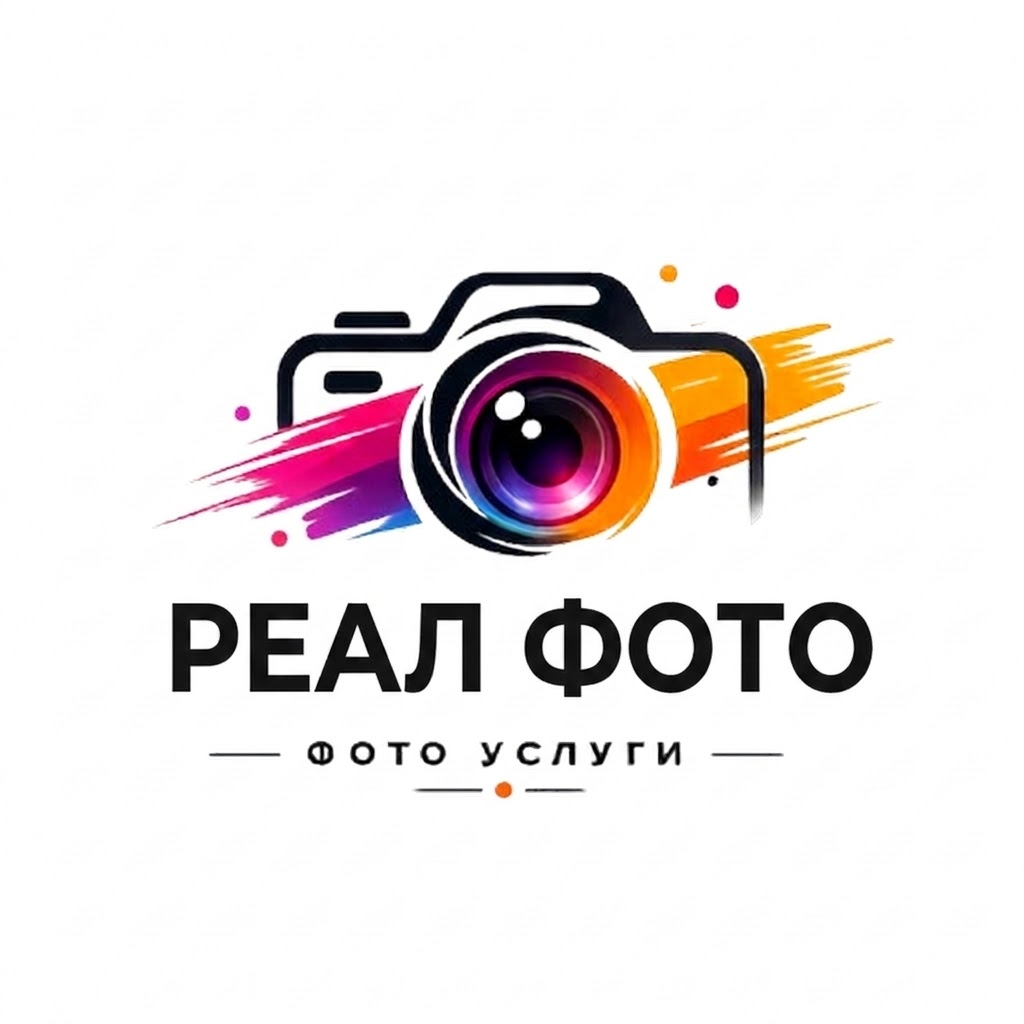
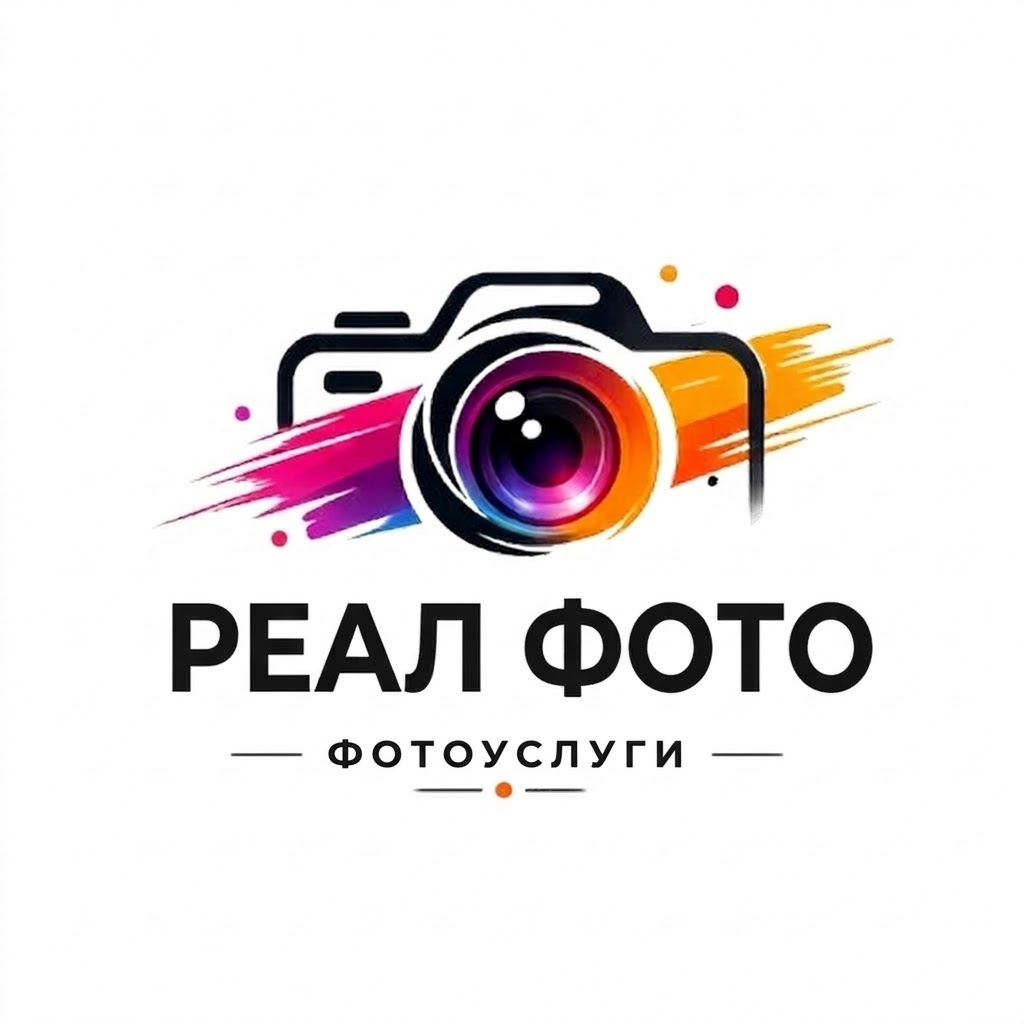
Updates

Changed region(s): [[0.2812, 0.7188, 0.6875, 0.75]]

diff --git a/assets/index-C2Dkb50m.js b/assets/index-C2Dkb50m.js
@@ -180,7 +180,7 @@ Error generating stack: `+i.message+`
  * LICENSE.md file in the root directory of this source tree.
  *
  * @license MIT
- */const wS="6";try{window.__reactRouterVersion=wS}catch{}const SS="startTransition",uf=Of[SS];function ES(e){let{basename:t,children:n,future:r,window:o}=e,i=w.useRef();i.current==null&&(i.current=z2({window:o,v5Compat:!0}));let s=i.current,[l,a]=w.useState({action:s.action,location:s.location}),{v7_startTransition:u}=r||{},d=w.useCallback(f=>{u&&uf?uf(()=>a(f)):a(f)},[a,u]);return w.useLayoutEffect(()=>s.listen(d),[s,d]),w.useEffect(()=>vS(r),[r]),w.createElement(yS,{basename:t,children:n,location:l.location,navigationType:l.action,navigator:s,future:r})}var cf;(function(e){e.UseScrollRestoration="useScrollRestoration",e.UseSubmit="useSubmit",e.UseSubmitFetcher="useSubmitFetcher",e.UseFetcher="useFetcher",e.useViewTransitionState="useViewTransitionState"})(cf||(cf={}));var df;(function(e){e.UseFetcher="useFetcher",e.UseFetchers="useFetchers",e.UseScrollRestoration="useScrollRestoration"})(df||(df={}));const Ts="/park-picture-perfect/assets/realfoto-BcOkliv_.png",kS=()=>{const[e,t]=w.useState(!1),[n,r]=w.useState(!1);w.useEffect(()=>{const i=()=>{t(window.scrollY>10)};return window.addEventListener("scroll",i),()=>window.removeEventListener("scroll",i)},[]);const o=[{title:"О нас",href:"#about"},{title:"Преимущества",href:"#why-us"},{title:"Стандарты",href:"#standards"},{title:"Процесс",href:"#process"},{title:"Условия",href:"#conditions"}];return v.jsxs("nav",{className:Lt("fixed top-0 left-0 right-0 z-50 transition-all duration-300 px-4 md:px-6 h-16 md:h-20 flex items-center","bg-white/95 backdrop-blur-md border-b border-slate-100",e?"shadow-md":"shadow-sm"),children:[v.jsxs("div",{className:"max-w-7xl mx-auto w-full flex items-center justify-between",children:[v.jsxs("a",{href:"#hero",className:"flex items-center gap-2 md:gap-3 group transition-transform hover:scale-105",children:[v.jsx("img",{src:Ts,alt:"РеалФото",className:"h-9 md:h-14 w-auto object-contain"}),v.jsx("span",{className:"text-xl md:text-2xl font-black tracking-tighter uppercase hidden xs:block text-slate-900",children:"В Кадре"})]}),v.jsxs("div",{className:"hidden lg:flex items-center gap-10",children:[" ",o.map(i=>v.jsx("a",{href:i.href,className:"text-base lg:text-[17px] font-bold text-slate-700 transition-all hover:text-secondary hover:scale-105",children:i.title},i.title))]}),v.jsxs("div",{className:"flex items-center gap-4",children:[v.jsxs("a",{href:"tel:+79619000056",className:Lt("flex items-center gap-2 rounded-xl font-bold transition-all","text-secondary border-2 border-secondary px-4 py-2 md:px-6 md:py-2.5 text-xs md:text-base hover:bg-secondary hover:text-white shadow-lg shadow-secondary/10"),children:[v.jsx(Fa,{className:"w-3 h-3 md:w-5 md:h-5"}),v.jsx("span",{className:"hidden mini:inline",children:"8 (961) 900-00-56"}),v.jsx("span",{className:"mini:hidden",children:"Связаться"})]}),v.jsx("button",{className:"md:hidden text-slate-900 p-1",onClick:()=>r(!n),children:n?v.jsx($a,{className:"w-8 h-8"}):v.jsx(i1,{className:"w-8 h-8"})})]})]}),n&&v.jsxs("div",{className:"fixed inset-0 top-0 left-0 w-full h-screen bg-white z-[60] flex flex-col animate-in fade-in slide-in-from-right md:hidden",children:[v.jsxs("div",{className:"flex justify-between items-center p-6 border-b",children:[v.jsx("img",{src:Ts,alt:"Лого",className:"h-10 w-auto"}),v.jsx("button",{onClick:()=>r(!1),children:v.jsx($a,{className:"w-9 h-9 text-slate-900"})})]}),v.jsxs("div",{className:"flex-1 flex flex-col items-center justify-center gap-10 px-8 text-center",children:[o.map(i=>v.jsx("a",{href:i.href,onClick:()=>r(!1),className:"text-4xl font-black text-slate-900 hover:text-secondary transition-colors",children:i.title},i.title)),v.jsx("div",{className:"w-full max-w-[200px] h-px bg-slate-100 my-4"}),v.jsxs("a",{href:"tel:+79619000056",className:"flex flex-col items-center gap-4 text-secondary",children:[v.jsx("div",{className:"bg-secondary/10 p-5 rounded-full shadow-inner",children:v.jsx(Fa,{className:"w-10 h-10"})}),v.jsx("span",{className:"text-3xl font-black italic",children:"8 (961) 900-00-56"})]})]})]})]})},CS="/park-picture-perfect/assets/hero-bg-CDGs6IJd.jpg",bS=()=>v.jsxs("section",{className:"relative min-h-screen flex items-center justify-center overflow-hidden pt-16 md:pt-20",children:[v.jsxs("div",{className:"absolute inset-0",children:[v.jsx("img",{src:CS,alt:"Фон парка",fetchPriority:"high",className:"w-full h-full object-cover scale-110 blur-[8px]"}),v.jsx("div",{className:"absolute inset-0 bg-gradient-to-b from-white/40 via-white/20 to-white/60"})]}),v.jsxs("div",{className:"relative z-10 w-[92%] max-w-5xl mx-auto p-6 md:p-16 rounded-[40px] border border-white/40 bg-white/30 backdrop-blur-xl shadow-[0_20px_50px_rgba(0,0,0,0.08)] animate-fade-up text-center",children:[v.jsxs("div",{className:"flex items-center justify-center gap-4 mb-6 opacity-80",children:[v.jsx(e1,{className:"w-6 h-6 text-secondary"}),v.jsx("div",{className:"w-px h-6 bg-secondary/30"}),v.jsx(a1,{className:"w-5 h-5 text-secondary"})]}),v.jsx("div",{className:"mb-8 flex justify-center",children:v.jsx("img",{src:Ts,alt:"В Кадре логотип",loading:"eager",className:"h-32 md:h-64 w-auto object-contain"})}),v.jsx("h1",{className:"text-3xl md:text-5xl font-bold text-slate-900 mb-6 tracking-tight uppercase",children:"Эмоции навсегда"}),v.jsx("p",{className:"text-lg md:text-xl text-slate-700 font-medium max-w-2xl mx-auto mb-10 leading-relaxed",children:"Профессиональные фотозоны для вашего парка. Создаём яркие впечатления, которые заставляют гостей возвращаться."}),v.jsx("a",{href:"#contact",className:"inline-block bg-secondary text-white px-12 py-4 rounded-2xl text-lg font-bold hover:scale-105 active:scale-95 transition-all shadow-xl hover:shadow-secondary/40",children:"Обсудить сотрудничество"})]})]}),PS="/park-picture-perfect/assets/first-4JcNQeOe.jpg",NS=()=>v.jsxs("section",{id:"about",className:"py-20 px-4 bg-secondary/10",children:[v.jsxs("div",{className:"max-w-7xl mx-auto",children:[v.jsxs("div",{className:"text-center mb-8 md:mb-12",children:[v.jsxs("h2",{className:"text-[10vw] md:text-9xl font-black text-slate-900 tracking-tighter uppercase leading-none md:leading-[0.8] whitespace-nowrap",children:["КТО ",v.jsx("span",{className:"text-secondary text-outline",children:"МЫ"})," ТАКИЕ?"]}),v.jsxs("p",{className:"mt-8 md:mt-12 text-xl md:text-4xl font-black text-slate-900 uppercase leading-tight tracking-tight max-w-4xl mx-auto",children:[v.jsx("span",{className:"text-secondary",children:"РеалФото"})," — команда профессионалов, объединившие фотографии и AI-технологии, чтобы вы получали идеальные снимки быстро, красиво и без лишних ожиданий"]})]}),v.jsx("div",{className:"flex flex-col items-center mb-16",children:v.jsxs("div",{className:"w-full max-w-5xl",children:[v.jsx("img",{src:PS,alt:"Наша команда",className:"w-full h-[350px] md:h-[600px] object-cover rounded-[32px] md:rounded-[48px] shadow-2xl mb-8"}),v.jsx("p",{className:"text-slate-500 font-bold text-lg md:text-2xl italic border-l-4 border-secondary pl-6 max-w-3xl",children:"Мы создаем не просто снимки, а атмосферу гостеприимства и праздника на каждой точке."})]})}),v.jsxs("div",{className:"p-8 md:p-12 bg-slate-900 rounded-[32px] md:rounded-[40px] text-center relative overflow-hidden shadow-2xl",children:[v.jsxs("h3",{className:"text-xl md:text-4xl font-black text-white uppercase italic tracking-tight relative z-10 leading-tight",children:["«НЕ ПРОСТО АРЕНДАТОРЫ, ",v.jsx("br",{className:"md:hidden"})," А ",v.jsx("span",{className:"text-secondary",children:"ЧАСТЬ ВАШЕГО"})," СЕРВИСА»"]}),v.jsx("div",{className:"absolute inset-0 opacity-10 bg-[url('https://www.transparenttextures.com/patterns/carbon-fibre.png')]"})]})]}),v.jsx("style",{children:`
+ */const wS="6";try{window.__reactRouterVersion=wS}catch{}const SS="startTransition",uf=Of[SS];function ES(e){let{basename:t,children:n,future:r,window:o}=e,i=w.useRef();i.current==null&&(i.current=z2({window:o,v5Compat:!0}));let s=i.current,[l,a]=w.useState({action:s.action,location:s.location}),{v7_startTransition:u}=r||{},d=w.useCallback(f=>{u&&uf?uf(()=>a(f)):a(f)},[a,u]);return w.useLayoutEffect(()=>s.listen(d),[s,d]),w.useEffect(()=>vS(r),[r]),w.createElement(yS,{basename:t,children:n,location:l.location,navigationType:l.action,navigator:s,future:r})}var cf;(function(e){e.UseScrollRestoration="useScrollRestoration",e.UseSubmit="useSubmit",e.UseSubmitFetcher="useSubmitFetcher",e.UseFetcher="useFetcher",e.useViewTransitionState="useViewTransitionState"})(cf||(cf={}));var df;(function(e){e.UseFetcher="useFetcher",e.UseFetchers="useFetchers",e.UseScrollRestoration="useScrollRestoration"})(df||(df={}));const Ts="/park-picture-perfect/assets/realfoto-DjeHN_cy.png",kS=()=>{const[e,t]=w.useState(!1),[n,r]=w.useState(!1);w.useEffect(()=>{const i=()=>{t(window.scrollY>10)};return window.addEventListener("scroll",i),()=>window.removeEventListener("scroll",i)},[]);const o=[{title:"О нас",href:"#about"},{title:"Преимущества",href:"#why-us"},{title:"Стандарты",href:"#standards"},{title:"Процесс",href:"#process"},{title:"Условия",href:"#conditions"}];return v.jsxs("nav",{className:Lt("fixed top-0 left-0 right-0 z-50 transition-all duration-300 px-4 md:px-6 h-16 md:h-20 flex items-center","bg-white/95 backdrop-blur-md border-b border-slate-100",e?"shadow-md":"shadow-sm"),children:[v.jsxs("div",{className:"max-w-7xl mx-auto w-full flex items-center justify-between",children:[v.jsxs("a",{href:"#hero",className:"flex items-center gap-2 md:gap-3 group transition-transform hover:scale-105",children:[v.jsx("img",{src:Ts,alt:"РеалФото",className:"h-9 md:h-14 w-auto object-contain"}),v.jsx("span",{className:"text-xl md:text-2xl font-black tracking-tighter uppercase hidden xs:block text-slate-900",children:"В Кадре"})]}),v.jsxs("div",{className:"hidden lg:flex items-center gap-10",children:[" ",o.map(i=>v.jsx("a",{href:i.href,className:"text-base lg:text-[17px] font-bold text-slate-700 transition-all hover:text-secondary hover:scale-105",children:i.title},i.title))]}),v.jsxs("div",{className:"flex items-center gap-4",children:[v.jsxs("a",{href:"tel:+79619000056",className:Lt("flex items-center gap-2 rounded-xl font-bold transition-all","text-secondary border-2 border-secondary px-4 py-2 md:px-6 md:py-2.5 text-xs md:text-base hover:bg-secondary hover:text-white shadow-lg shadow-secondary/10"),children:[v.jsx(Fa,{className:"w-3 h-3 md:w-5 md:h-5"}),v.jsx("span",{className:"hidden mini:inline",children:"8 (961) 900-00-56"}),v.jsx("span",{className:"mini:hidden",children:"Связаться"})]}),v.jsx("button",{className:"md:hidden text-slate-900 p-1",onClick:()=>r(!n),children:n?v.jsx($a,{className:"w-8 h-8"}):v.jsx(i1,{className:"w-8 h-8"})})]})]}),n&&v.jsxs("div",{className:"fixed inset-0 top-0 left-0 w-full h-screen bg-white z-[60] flex flex-col animate-in fade-in slide-in-from-right md:hidden",children:[v.jsxs("div",{className:"flex justify-between items-center p-6 border-b",children:[v.jsx("img",{src:Ts,alt:"Лого",className:"h-10 w-auto"}),v.jsx("button",{onClick:()=>r(!1),children:v.jsx($a,{className:"w-9 h-9 text-slate-900"})})]}),v.jsxs("div",{className:"flex-1 flex flex-col items-center justify-center gap-10 px-8 text-center",children:[o.map(i=>v.jsx("a",{href:i.href,onClick:()=>r(!1),className:"text-4xl font-black text-slate-900 hover:text-secondary transition-colors",children:i.title},i.title)),v.jsx("div",{className:"w-full max-w-[200px] h-px bg-slate-100 my-4"}),v.jsxs("a",{href:"tel:+79619000056",className:"flex flex-col items-center gap-4 text-secondary",children:[v.jsx("div",{className:"bg-secondary/10 p-5 rounded-full shadow-inner",children:v.jsx(Fa,{className:"w-10 h-10"})}),v.jsx("span",{className:"text-3xl font-black italic",children:"8 (961) 900-00-56"})]})]})]})]})},CS="/park-picture-perfect/assets/hero-bg-CDGs6IJd.jpg",bS=()=>v.jsxs("section",{className:"relative min-h-screen flex items-center justify-center overflow-hidden pt-16 md:pt-20",children:[v.jsxs("div",{className:"absolute inset-0",children:[v.jsx("img",{src:CS,alt:"Фон парка",fetchPriority:"high",className:"w-full h-full object-cover scale-110 blur-[8px]"}),v.jsx("div",{className:"absolute inset-0 bg-gradient-to-b from-white/40 via-white/20 to-white/60"})]}),v.jsxs("div",{className:"relative z-10 w-[92%] max-w-5xl mx-auto p-6 md:p-16 rounded-[40px] border border-white/40 bg-white/30 backdrop-blur-xl shadow-[0_20px_50px_rgba(0,0,0,0.08)] animate-fade-up text-center",children:[v.jsxs("div",{className:"flex items-center justify-center gap-4 mb-6 opacity-80",children:[v.jsx(e1,{className:"w-6 h-6 text-secondary"}),v.jsx("div",{className:"w-px h-6 bg-secondary/30"}),v.jsx(a1,{className:"w-5 h-5 text-secondary"})]}),v.jsx("div",{className:"mb-8 flex justify-center",children:v.jsx("img",{src:Ts,alt:"В Кадре логотип",loading:"eager",className:"h-32 md:h-64 w-auto object-contain"})}),v.jsx("h1",{className:"text-3xl md:text-5xl font-bold text-slate-900 mb-6 tracking-tight uppercase",children:"Эмоции навсегда"}),v.jsx("p",{className:"text-lg md:text-xl text-slate-700 font-medium max-w-2xl mx-auto mb-10 leading-relaxed",children:"Профессиональные фотозоны для вашего парка. Создаём яркие впечатления, которые заставляют гостей возвращаться."}),v.jsx("a",{href:"#contact",className:"inline-block bg-secondary text-white px-12 py-4 rounded-2xl text-lg font-bold hover:scale-105 active:scale-95 transition-all shadow-xl hover:shadow-secondary/40",children:"Обсудить сотрудничество"})]})]}),PS="/park-picture-perfect/assets/first-4JcNQeOe.jpg",NS=()=>v.jsxs("section",{id:"about",className:"py-20 px-4 bg-secondary/10",children:[v.jsxs("div",{className:"max-w-7xl mx-auto",children:[v.jsxs("div",{className:"text-center mb-8 md:mb-12",children:[v.jsxs("h2",{className:"text-[10vw] md:text-9xl font-black text-slate-900 tracking-tighter uppercase leading-none md:leading-[0.8] whitespace-nowrap",children:["КТО ",v.jsx("span",{className:"text-secondary text-outline",children:"МЫ"})," ТАКИЕ?"]}),v.jsxs("p",{className:"mt-8 md:mt-12 text-xl md:text-4xl font-black text-slate-900 uppercase leading-tight tracking-tight max-w-4xl mx-auto",children:[v.jsx("span",{className:"text-secondary",children:"РеалФото"})," — команда профессионалов, объединившие фотографии и AI-технологии, чтобы вы получали идеальные снимки быстро, красиво и без лишних ожиданий"]})]}),v.jsx("div",{className:"flex flex-col items-center mb-16",children:v.jsxs("div",{className:"w-full max-w-5xl",children:[v.jsx("img",{src:PS,alt:"Наша команда",className:"w-full h-[350px] md:h-[600px] object-cover rounded-[32px] md:rounded-[48px] shadow-2xl mb-8"}),v.jsx("p",{className:"text-slate-500 font-bold text-lg md:text-2xl italic border-l-4 border-secondary pl-6 max-w-3xl",children:"Мы создаем не просто снимки, а атмосферу гостеприимства и праздника на каждой точке."})]})}),v.jsxs("div",{className:"p-8 md:p-12 bg-slate-900 rounded-[32px] md:rounded-[40px] text-center relative overflow-hidden shadow-2xl",children:[v.jsxs("h3",{className:"text-xl md:text-4xl font-black text-white uppercase italic tracking-tight relative z-10 leading-tight",children:["«НЕ ПРОСТО АРЕНДАТОРЫ, ",v.jsx("br",{className:"md:hidden"})," А ",v.jsx("span",{className:"text-secondary",children:"ЧАСТЬ ВАШЕГО"})," СЕРВИСА»"]}),v.jsx("div",{className:"absolute inset-0 opacity-10 bg-[url('https://www.transparenttextures.com/patterns/carbon-fibre.png')]"})]})]}),v.jsx("style",{children:`
         .text-outline {
           -webkit-text-stroke: 2px #f97316;
           color: transparent;

diff --git a/index.html b/index.html
@@ -18,7 +18,7 @@
     <meta name="twitter:card" content="summary_large_image" />
     <meta name="twitter:title" content="РЕАЛФОТО — Фотоуслуги" />
     <meta name="twitter:image" content="/park-picture-perfect/assets/realfoto.jpg" />
-    <script type="module" crossorigin src="/park-picture-perfect/assets/index-DFIDWmOK.js"></script>
+    <script type="module" crossorigin src="/park-picture-perfect/assets/index-C2Dkb50m.js"></script>
     <link rel="stylesheet" crossorigin href="/park-picture-perfect/assets/index-Bt6CCVDF.css">
   </head>
 
